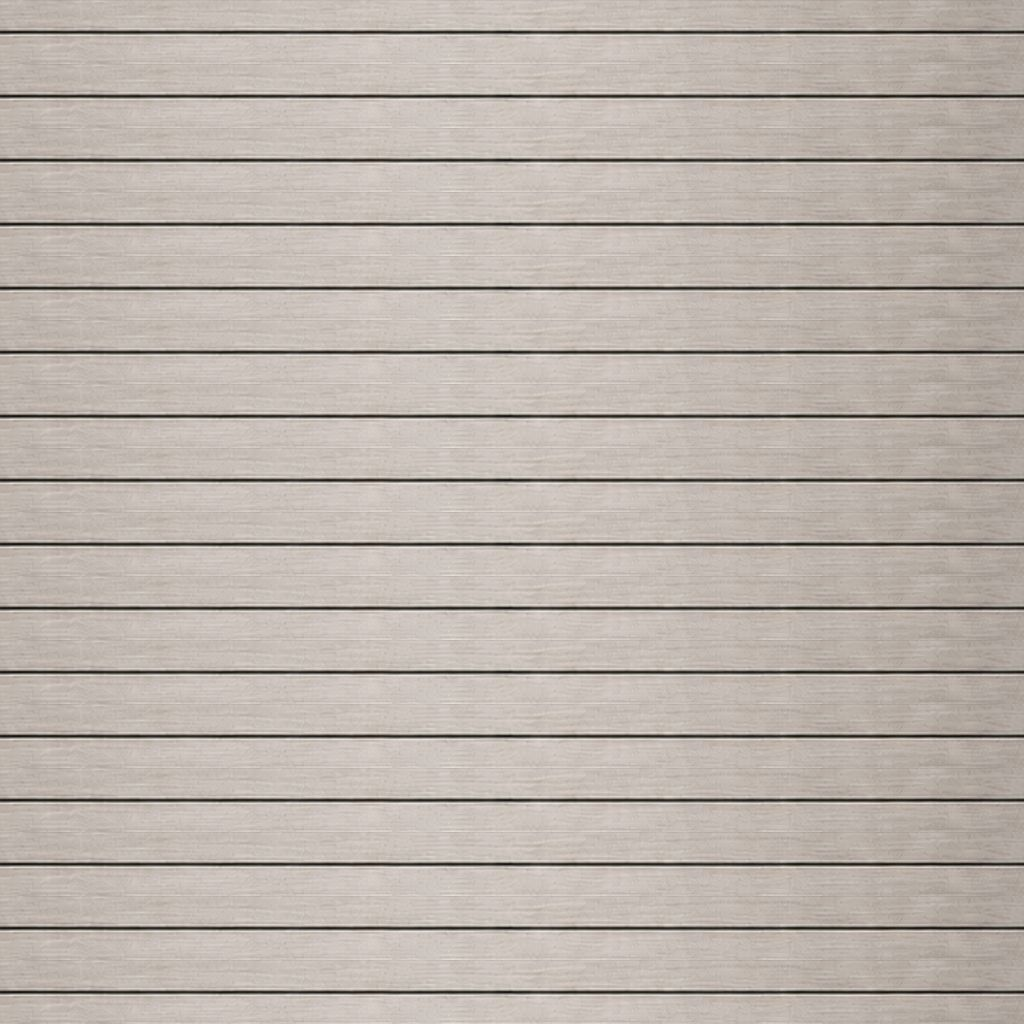
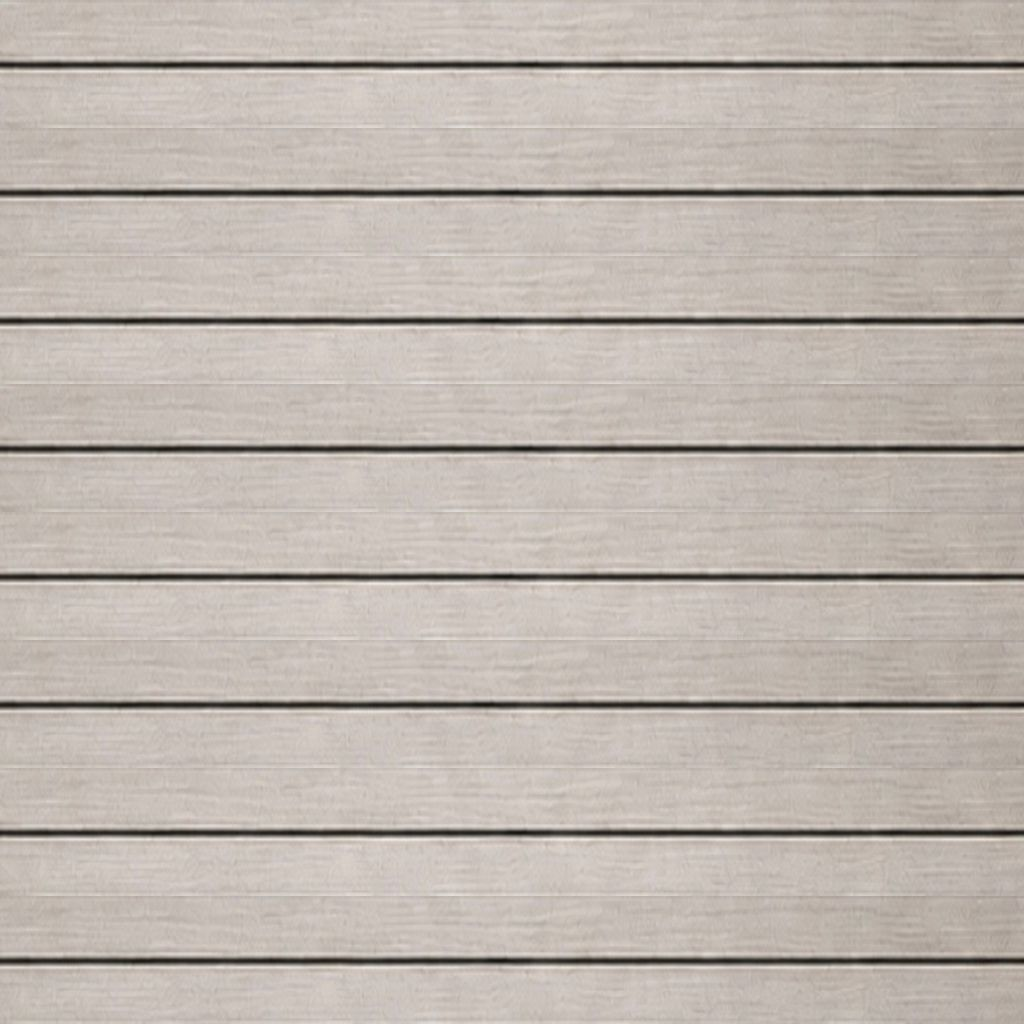
Refine bar plate to finer grain and shallower cuts
Critic called r26 grain coarse with deep bevels; densify the sampled
metal tile, high-pass the brush map, and shallow hard-edged insets.

diff --git a/src/style.css b/src/style.css
@@ -152,8 +152,8 @@ select {
     auto, auto, auto, auto, auto, auto,
     auto,
     780px 1180px,
-    220px 220px,
-    110% 38%;
+    160px 160px,
+    100% 28%;
   background-position:
     0 0, 0 0, 0 0, 0 0,
     0 0, 0 0, 0 0, 0 0, 0 0, 0 0,
@@ -512,14 +512,14 @@ select {
 .status-bay {
   position: relative;
   margin-top: 12px;
-  padding: 2px;
-  border-radius: 2px;
+  padding: 1.5px;
+  border-radius: 1px;
   background: #120e09;
   box-shadow:
-    inset 0 2px 3px rgba(0, 0, 0, 0.95),
-    inset 0 -1px 0 rgba(255, 236, 200, 0.08),
-    0 1px 0 rgba(255, 255, 255, 0.32),
-    0 0 0 1px rgba(18, 12, 6, 0.55);
+    inset 0 1px 2px rgba(0, 0, 0, 0.92),
+    inset 0 -1px 0 rgba(255, 236, 200, 0.1),
+    0 1px 0 rgba(255, 255, 255, 0.3),
+    0 0 0 1px rgba(18, 12, 6, 0.5);
 }
 
 .bay-glass {
@@ -629,13 +629,12 @@ select {
   background: #1a1a15;
   /* machined cut: hard walls + short contact occlusion, not soft bloom */
   box-shadow:
-    inset 0 5px 6px -2px rgba(8, 5, 2, 0.98),
-    inset 0 -4px 5px -2px rgba(6, 4, 2, 0.9),
-    inset 5px 0 6px -2px rgba(12, 8, 4, 0.92),
-    inset -5px 0 6px -2px rgba(12, 8, 4, 0.92),
-    inset 0 0 0 1px rgba(0, 0, 0, 0.98),
-    0 0 0 1px rgba(255, 248, 230, 0.22),
-    0 1px 0 rgba(16, 10, 4, 0.55);
+    inset 0 2px 3px -1px rgba(8, 5, 2, 0.95),
+    inset 0 -2px 2px -1px rgba(6, 4, 2, 0.85),
+    inset 2px 0 3px -1px rgba(12, 8, 4, 0.88),
+    inset -2px 0 3px -1px rgba(12, 8, 4, 0.88),
+    inset 0 0 0 1px rgba(0, 0, 0, 0.95),
+    0 0 0 1px rgba(255, 248, 230, 0.18);
   overflow: hidden;
 }
 
@@ -722,8 +721,8 @@ select {
   z-index: 0;
   pointer-events: none;
   background:
-    linear-gradient(180deg, rgba(255, 255, 255, 0.07) 0px, rgba(255, 255, 255, 0) 9px),
-    linear-gradient(0deg, rgba(24, 17, 8, 0.08) 0px, rgba(24, 17, 8, 0) 11px);
+    linear-gradient(180deg, rgba(255, 255, 255, 0.05) 0px, rgba(255, 255, 255, 0) 4px),
+    linear-gradient(0deg, rgba(24, 17, 8, 0.05) 0px, rgba(24, 17, 8, 0) 5px);
 }
 
 .metric-grid article > *,
